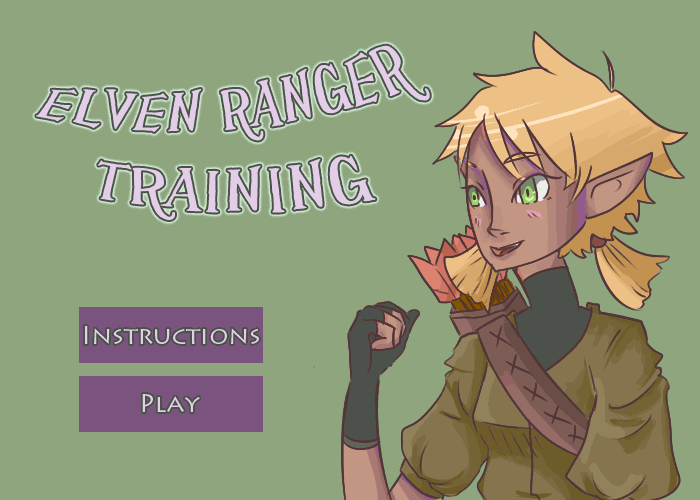
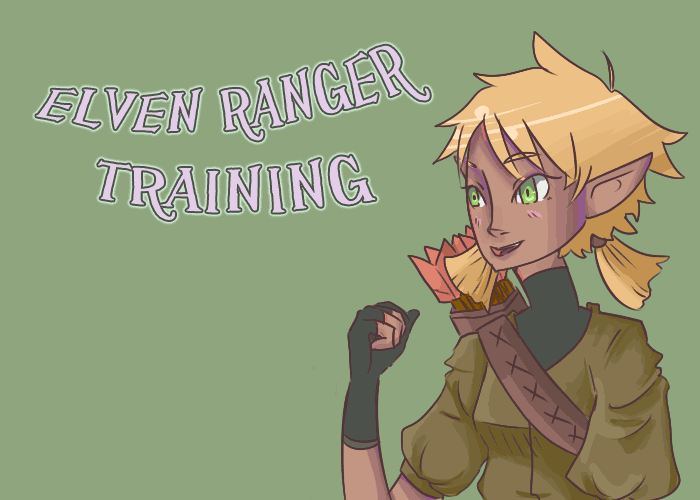
added main and instruction screens

Changed region(s): [[0.09, 0.6, 0.39, 0.87]]

diff --git a/sideScroller/scripts/main.ts b/sideScroller/scripts/main.ts
@@ -7,7 +7,7 @@ var forest: Forest;
 var bunny: Bunny;
 var apple: Apple;
 var clouds: Clouds;
-var scoreboard: Scoreboard;
+var scoreboard: Scoreboard; 
 
 // Cloud Array
 var bushes = [];
@@ -22,8 +22,21 @@ var GAME_FONT: string = "40px Consolas";//change
 var FONT_COLOUR: string = "#FFFF00";//change
 var PLAYER_LIVES: number = 3;
 
+var mainScreen;
+var playButt;
+var instructionButt;
+var insScreen;
+
+var progressText = new createjs.Text("", "20px Arial", "#000000");
+
 function preload(): void {
+    stage = new createjs.Stage(document.getElementById("canvas"));
+    progressText.x = 300 - progressText.getMeasuredWidth() / 2;
+    progressText.y = 20;
+    stage.addChild(progressText);
+    stage.update();
     queue = new createjs.LoadQueue();
+    queue.on("progress", handleFileProgress);
     queue.installPlugin(createjs.Sound);
     queue.addEventListener("complete", init);
     queue.loadManifest([
@@ -33,6 +46,10 @@ function preload(): void {
         { id: "bunny", src: "images/bunny.gif" },
         { id: "apple", src: "images/apple.png" },
         { id: "clouds", src: "images/clouds.png" },
+        { id: "mainScreen", src: "images/mainscreen.png" },
+        { id: "playButton", src: "images/playButton.png" },
+        { id: "instructions", src: "images/instructions.png" },
+        { id: "instructionButton", src: "images/instructionButton.png" },
         //sounds
         { id: "main", src: "sounds/piano.mp3" },
         { id: "leafHit", src: "sounds/leafHit.wav" },
@@ -42,13 +59,12 @@ function preload(): void {
 }
 
 function init(): void {
-    stage = new createjs.Stage(document.getElementById("canvas"));
-    stage.enableMouseOver(20);
-    stage.cursor = 'none';
-
-    createjs.Ticker.setFPS(60);
-    createjs.Ticker.addEventListener("tick", gameLoop);
     gameStart();
+}
+
+function handleFileProgress(event) {
+    progressText.text = (queue.progress * 100 | 0) + " % Loaded";
+    stage.update();
 }
 
 // Game Loop
@@ -390,11 +406,71 @@ class Scoreboard {
 // Main Game Function
 function gameStart(): void {
 
+    //add the main screen
+    mainScreen = new createjs.Bitmap(queue.getResult("mainScreen"));
+    this.stage.addChild(mainScreen);
+    mainScreen.x = 0;
+    mainScreen.y = 0;
+
+    //add the play button
+    playButt = new createjs.Bitmap(queue.getResult("playButton"));
+    this.stage.addChild(playButt);
+    playButt.x = 80;
+    playButt.y = 390;
+    playButt.addEventListener("click", mainGameStart);
+
+    //add the instructions button
+    instructionButt = new createjs.Bitmap(queue.getResult("instructionButton"));
+    this.stage.addChild(instructionButt);
+    instructionButt.x = 80;
+    instructionButt.y = 310;
+    instructionButt.addEventListener("click", showInstructions);
+
+
+    var mainTune = createjs.Sound.play("main", { loop: 1000 });
+    mainTune.addEventListener("loop", handleLoop);
+    mainTune.volume = mainTune.volume * 0.2;
+
+    function handleLoop(event) {
+      //loop the music
+    }
+    stage.update();
+}
+
+function showInstructions(e): void {
+    stage.removeAllChildren();
+
+    //add the main screen
+    insScreen = new createjs.Bitmap(queue.getResult("instructions"));
+    this.stage.addChild(insScreen);
+    insScreen.x = 0;
+    insScreen.y = 0;
+
+    //add the play button
+    playButt = new createjs.Bitmap(queue.getResult("playButton"));
+    this.stage.addChild(playButt);
+    playButt.x = 80;
+    playButt.y = 390;
+    playButt.addEventListener("click", mainGameStart);
+
+    stage.update();
+}
+
+
+function mainGameStart(e): void {
+    createjs.Ticker.setFPS(60);
+    createjs.Ticker.addEventListener("tick", gameLoop);
+
+    stage.enableMouseOver(20);
+    stage.cursor = 'none';
+
+    stage.removeAllChildren();
+
     var point1: createjs.Point = new createjs.Point();
     var point2: createjs.Point = new createjs.Point();
 
     forest = new Forest();
-    
+
     for (var count = 0; count < BUSH_NUM; count++) {
         bushes[count] = new Bush();
     }
@@ -412,12 +488,4 @@ function gameStart(): void {
     scoreboard = new Scoreboard();
     scoreboard.lives = PLAYER_LIVES;
     scoreboard.score = 0;
-
-    var mainTune = createjs.Sound.play("main", { loop: 1000 });
-    mainTune.addEventListener("loop", handleLoop);
-    mainTune.volume = mainTune.volume * 0.2;
-
-    function handleLoop(event) {
-      //loop the music
-    }
 }

diff --git a/sideScroller/scripts/main.js b/sideScroller/scripts/main.js
@@ -22,8 +22,21 @@ var GAME_FONT = "40px Consolas";
 var FONT_COLOUR = "#FFFF00";
 var PLAYER_LIVES = 3;
 
+var mainScreen;
+var playButt;
+var instructionButt;
+var insScreen;
+
+var progressText = new createjs.Text("", "20px Arial", "#000000");
+
 function preload() {
+    stage = new createjs.Stage(document.getElementById("canvas"));
+    progressText.x = 300 - progressText.getMeasuredWidth() / 2;
+    progressText.y = 20;
+    stage.addChild(progressText);
+    stage.update();
     queue = new createjs.LoadQueue();
+    queue.on("progress", handleFileProgress);
     queue.installPlugin(createjs.Sound);
     queue.addEventListener("complete", init);
     queue.loadManifest([
@@ -33,6 +46,10 @@ function preload() {
         { id: "bunny", src: "images/bunny.gif" },
         { id: "apple", src: "images/apple.png" },
         { id: "clouds", src: "images/clouds.png" },
+        { id: "mainScreen", src: "images/mainscreen.png" },
+        { id: "playButton", src: "images/playButton.png" },
+        { id: "instructions", src: "images/instructions.png" },
+        { id: "instructionButton", src: "images/instructionButton.png" },
         //sounds
         { id: "main", src: "sounds/piano.mp3" },
         { id: "leafHit", src: "sounds/leafHit.wav" },
@@ -42,13 +59,12 @@ function preload() {
 }
 
 function init() {
-    stage = new createjs.Stage(document.getElementById("canvas"));
-    stage.enableMouseOver(20);
-    stage.cursor = 'none';
-
-    createjs.Ticker.setFPS(60);
-    createjs.Ticker.addEventListener("tick", gameLoop);
     gameStart();
+}
+
+function handleFileProgress(event) {
+    progressText.text = (queue.progress * 100 | 0) + " % Loaded";
+    stage.update();
 }
 
 // Game Loop
@@ -355,6 +371,64 @@ var Scoreboard = (function () {
 
 // Main Game Function
 function gameStart() {
+    //add the main screen
+    mainScreen = new createjs.Bitmap(queue.getResult("mainScreen"));
+    this.stage.addChild(mainScreen);
+    mainScreen.x = 0;
+    mainScreen.y = 0;
+
+    //add the play button
+    playButt = new createjs.Bitmap(queue.getResult("playButton"));
+    this.stage.addChild(playButt);
+    playButt.x = 80;
+    playButt.y = 390;
+    playButt.addEventListener("click", mainGameStart);
+
+    //add the instructions button
+    instructionButt = new createjs.Bitmap(queue.getResult("instructionButton"));
+    this.stage.addChild(instructionButt);
+    instructionButt.x = 80;
+    instructionButt.y = 310;
+    instructionButt.addEventListener("click", showInstructions);
+
+    var mainTune = createjs.Sound.play("main", { loop: 1000 });
+    mainTune.addEventListener("loop", handleLoop);
+    mainTune.volume = mainTune.volume * 0.2;
+
+    function handleLoop(event) {
+        //loop the music
+    }
+    stage.update();
+}
+
+function showInstructions(e) {
+    stage.removeAllChildren();
+
+    //add the main screen
+    insScreen = new createjs.Bitmap(queue.getResult("instructions"));
+    this.stage.addChild(insScreen);
+    insScreen.x = 0;
+    insScreen.y = 0;
+
+    //add the play button
+    playButt = new createjs.Bitmap(queue.getResult("playButton"));
+    this.stage.addChild(playButt);
+    playButt.x = 80;
+    playButt.y = 390;
+    playButt.addEventListener("click", mainGameStart);
+
+    stage.update();
+}
+
+function mainGameStart(e) {
+    createjs.Ticker.setFPS(60);
+    createjs.Ticker.addEventListener("tick", gameLoop);
+
+    stage.enableMouseOver(20);
+    stage.cursor = 'none';
+
+    stage.removeAllChildren();
+
     var point1 = new createjs.Point();
     var point2 = new createjs.Point();
 
@@ -377,13 +451,5 @@ function gameStart() {
     scoreboard = new Scoreboard();
     scoreboard.lives = PLAYER_LIVES;
     scoreboard.score = 0;
-
-    var mainTune = createjs.Sound.play("main", { loop: 1000 });
-    mainTune.addEventListener("loop", handleLoop);
-    mainTune.volume = mainTune.volume * 0.2;
-
-    function handleLoop(event) {
-        //loop the music
-    }
 }
 //# sourceMappingURL=main.js.map
